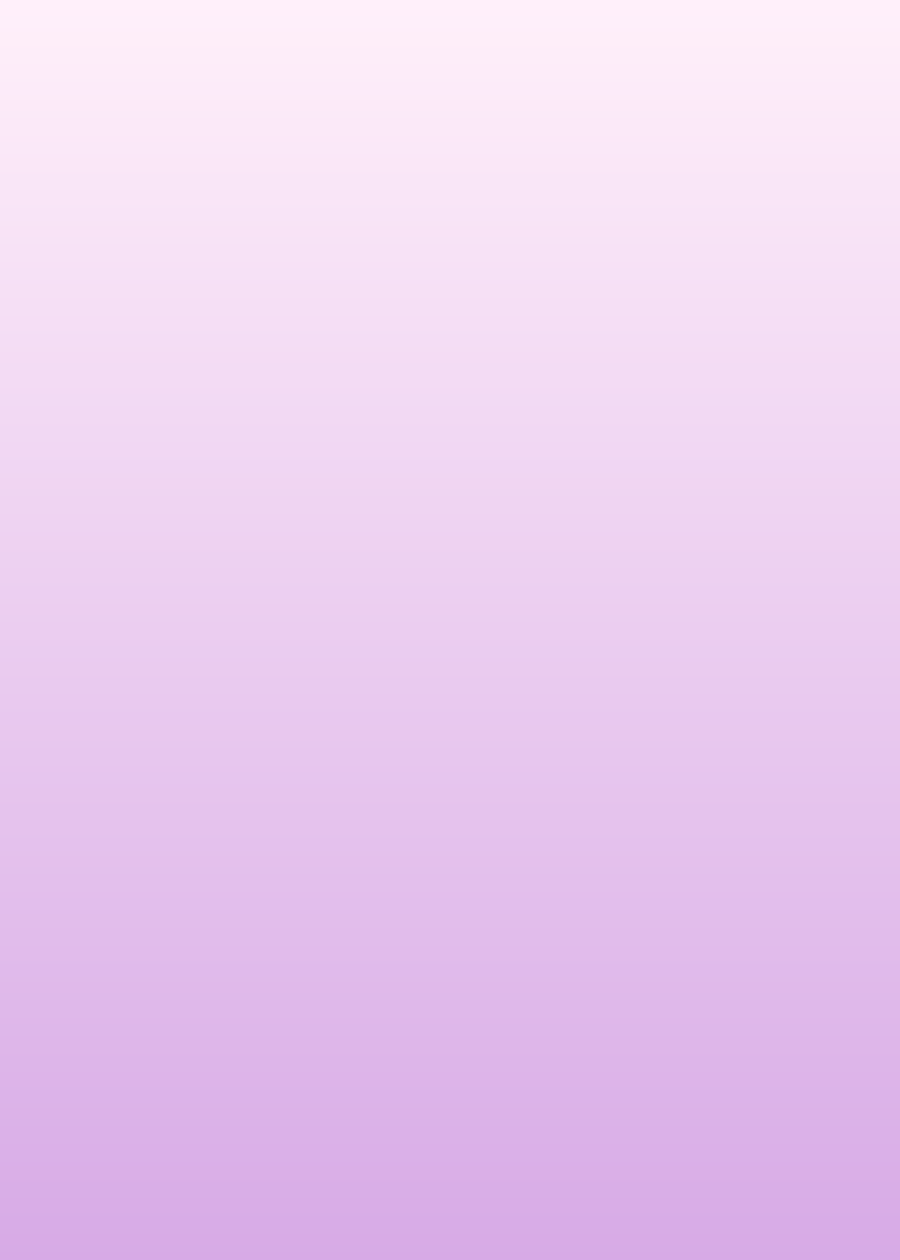
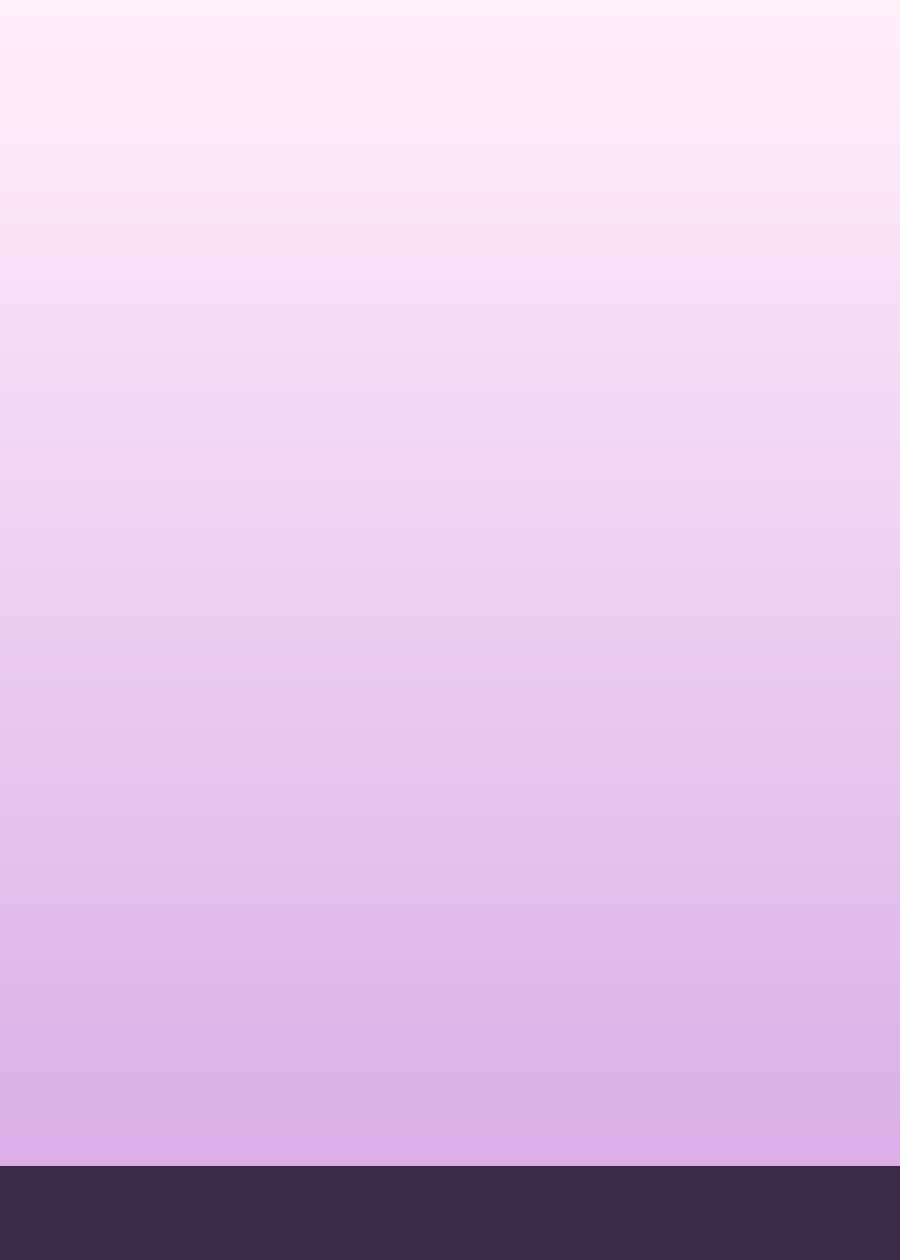
Open on the layout the grams are actually printed from
The built-in arrangement was invented before there was a card to place
things on. This replaces it with a saved one: name and age across the
middle with the birthday beside it, the message below, and the teacher
and grade small and pale along the bottom edge. The column mapping the
form produces is seeded too, so a fresh browser is ready without being
set up first -- guessing still runs and still wins where a header has
drifted, since a seeded column the loaded file lacks is dropped.

Two things in the saved file were left out. Its "grams handed out on"
date was a moment in time, not a default. And it carried two birthday
fields, one of them the hidden remains of the old delivery-date field
that the merge migrated; keeping it would have put a second Birthday in
the field list with nothing to do.

The sample card gains a dark band along its bottom edge. The teacher and
grade are near-white there because the real artwork is dark there, and on
a card pale all the way down they were invisible -- a sample that cannot
show what the defaults do is not much of a sample.

Claude-Session: https://claude.ai/code/session_01WaRBgG8ufLrX3GbkKvJNb6

Changed region(s): [[0.0, 0.8976, 1.0, 1.0]]

diff --git a/index.html b/index.html
@@ -541,8 +541,21 @@
   var S = {
     art: null,
     rows: [], columns: [],
-    map: { studentFirst: '', studentLast: '', from: '', message: '', age: '',
-           grade: '', teacher: '', birthdate: '', qty: '' },
+    /* Seeded with the headers this collection's form produces. Guessing finds
+       them anyway; this only matters if the wording drifts enough to beat the
+       patterns. A column named here that a loaded file does not have is
+       dropped and re-guessed, so it cannot mislead. */
+    map: {
+      studentFirst: "Student's First Name",
+      studentLast: "Student's Last Name",
+      from: 'Please indicate who this gram is from (your name, Mom & Dad, etc.)',
+      message: 'Message for student (will be added to certificate)',
+      age: "Student's Age",
+      grade: 'Grade of Student',
+      teacher: "Teacher's Name",
+      birthdate: 'Delivery Date',
+      qty: 'Qty Sold'
+    },
     filter: { col: '', val: '' },
     fields: [], sel: null, idx: 0, skip: {},
     refDate: todayISO(), zoom: 'fit', guides: true, sheets: [], sheet: 0,
@@ -555,17 +568,45 @@
   }
   function pad2(n) { return (n < 10 ? '0' : '') + n; }
 
+  /* The arrangement the grams are actually printed from, taken from a saved
+     layout rather than invented: name and age across the middle with the
+     birthday beside it, the message below, and the teacher and grade small
+     and pale along the bottom edge. Every number is a fraction of the
+     artwork, so it lands the same on a proof and on the print file. */
   function defaultFields() {
     return [
-      mk('student',   { y: .40, h: .13, size: .090, weight: '700', font: "'Fredoka', system-ui, sans-serif" }),
-      mk('age',       { y: .53, h: .07, size: .048, weight: '600', prefix: 'Turning ', suffix: '!' }),
-      mk('message',   { y: .67, h: .16, size: .034, italic: true }),
-      mk('from',      { y: .85, h: .06, size: .034, weight: '600', prefix: '\u2014 ' }),
-      /* Present but off: which of these belongs on a card depends on whether
-         it is handed to the child or sorted by whoever walks the halls. */
-      mk('birthdate', { y: .605, h: .05, size: .030, color: '#5a6472' }),
-      mk('grade',     { y: .93, h: .04, size: .022, color: '#5a6472', visible: false }),
-      mk('teacher',   { y: .05, h: .04, size: .022, color: '#5a6472', visible: false })
+      mk('student', {
+        x: .58693, y: .48915, w: .33184, h: .07655, size: .08976,
+        font: "'Fredoka', system-ui, sans-serif", weight: '700',
+        align: 'center', valign: 'bottom'
+      }),
+      mk('age', {
+        x: .22101, y: .56786, w: .28986, h: .06969, size: .04805,
+        weight: '600', align: 'left', valign: 'bottom',
+        prefix: 'Turning ', suffix: '!'
+      }),
+      mk('birthdate', {
+        x: .64794, y: .57140, w: .23805, h: .05658, size: .02992,
+        color: '#5a6472', align: 'center', valign: 'bottom',
+        dateFmt: 'numericYear'
+      }),
+      mk('message', {
+        x: .39240, y: .69549, w: .42741, h: .12631, size: .03445,
+        italic: true, align: 'center', valign: 'middle',
+        outlineColor: '#7c2a00', outlineWidth: 2
+      }),
+      mk('from', {
+        x: .38612, y: .82364, w: .43464, h: .05687, size: .034,
+        weight: '600', align: 'center', valign: 'middle', prefix: '\u2014 '
+      }),
+      mk('teacher', {
+        x: .32756, y: .95190, w: .18033, h: .03684, size: .02176,
+        color: '#ebebeb', align: 'left', valign: 'bottom'
+      }),
+      mk('grade', {
+        x: .55182, y: .96220, w: .12271, h: .02808, size: .02176,
+        color: '#ebebeb', align: 'right', valign: 'middle'
+      })
     ];
   }
 

diff --git a/README.md b/README.md
@@ -8,6 +8,18 @@ arrangement you set once is used for all of them.
 network: **double-click it and it runs.** Upload it to a web host if you want
 other people to reach it, but nothing about it requires one.
 
+## Defaults
+
+The page opens on the arrangement the grams are printed from — name and age
+across the middle with the birthday beside it, the message below, and the
+teacher and grade small and pale along the bottom edge — and on the column
+mapping this collection's form produces. Both came from a saved layout rather
+than being invented, so a fresh browser is ready to print without being set up
+first.
+
+*Start the layout over* returns to exactly that. *Load layout* still takes a
+file, for a different card or a different year.
+
 ## Using it
 
 1. Open `index.html`.

diff --git a/sample/README.md b/sample/README.md
@@ -2,7 +2,11 @@
 
 Enough to exercise the page before any real orders exist.
 
-- `card.png` — a blank 900×1260 gradient, the proportions of a 5×7 card.
+- `card.png` — a blank 900×1260 gradient, the proportions of a 5×7 card, with
+  a dark band along the bottom. The band is there because the default layout
+  puts the teacher and grade in near-white along that edge, as the real
+  artwork does; on a card that is pale all the way down they would be
+  invisible and the sample would not show what the defaults actually do.
 - `orders.xlsx` — a workbook shaped like a real Cheddar Up fundraiser export:
   four sheets, including a long `All Purchases` tab that mixes items behind
   generic `Question 1` / `Answer 1` columns. The page should ignore that one
